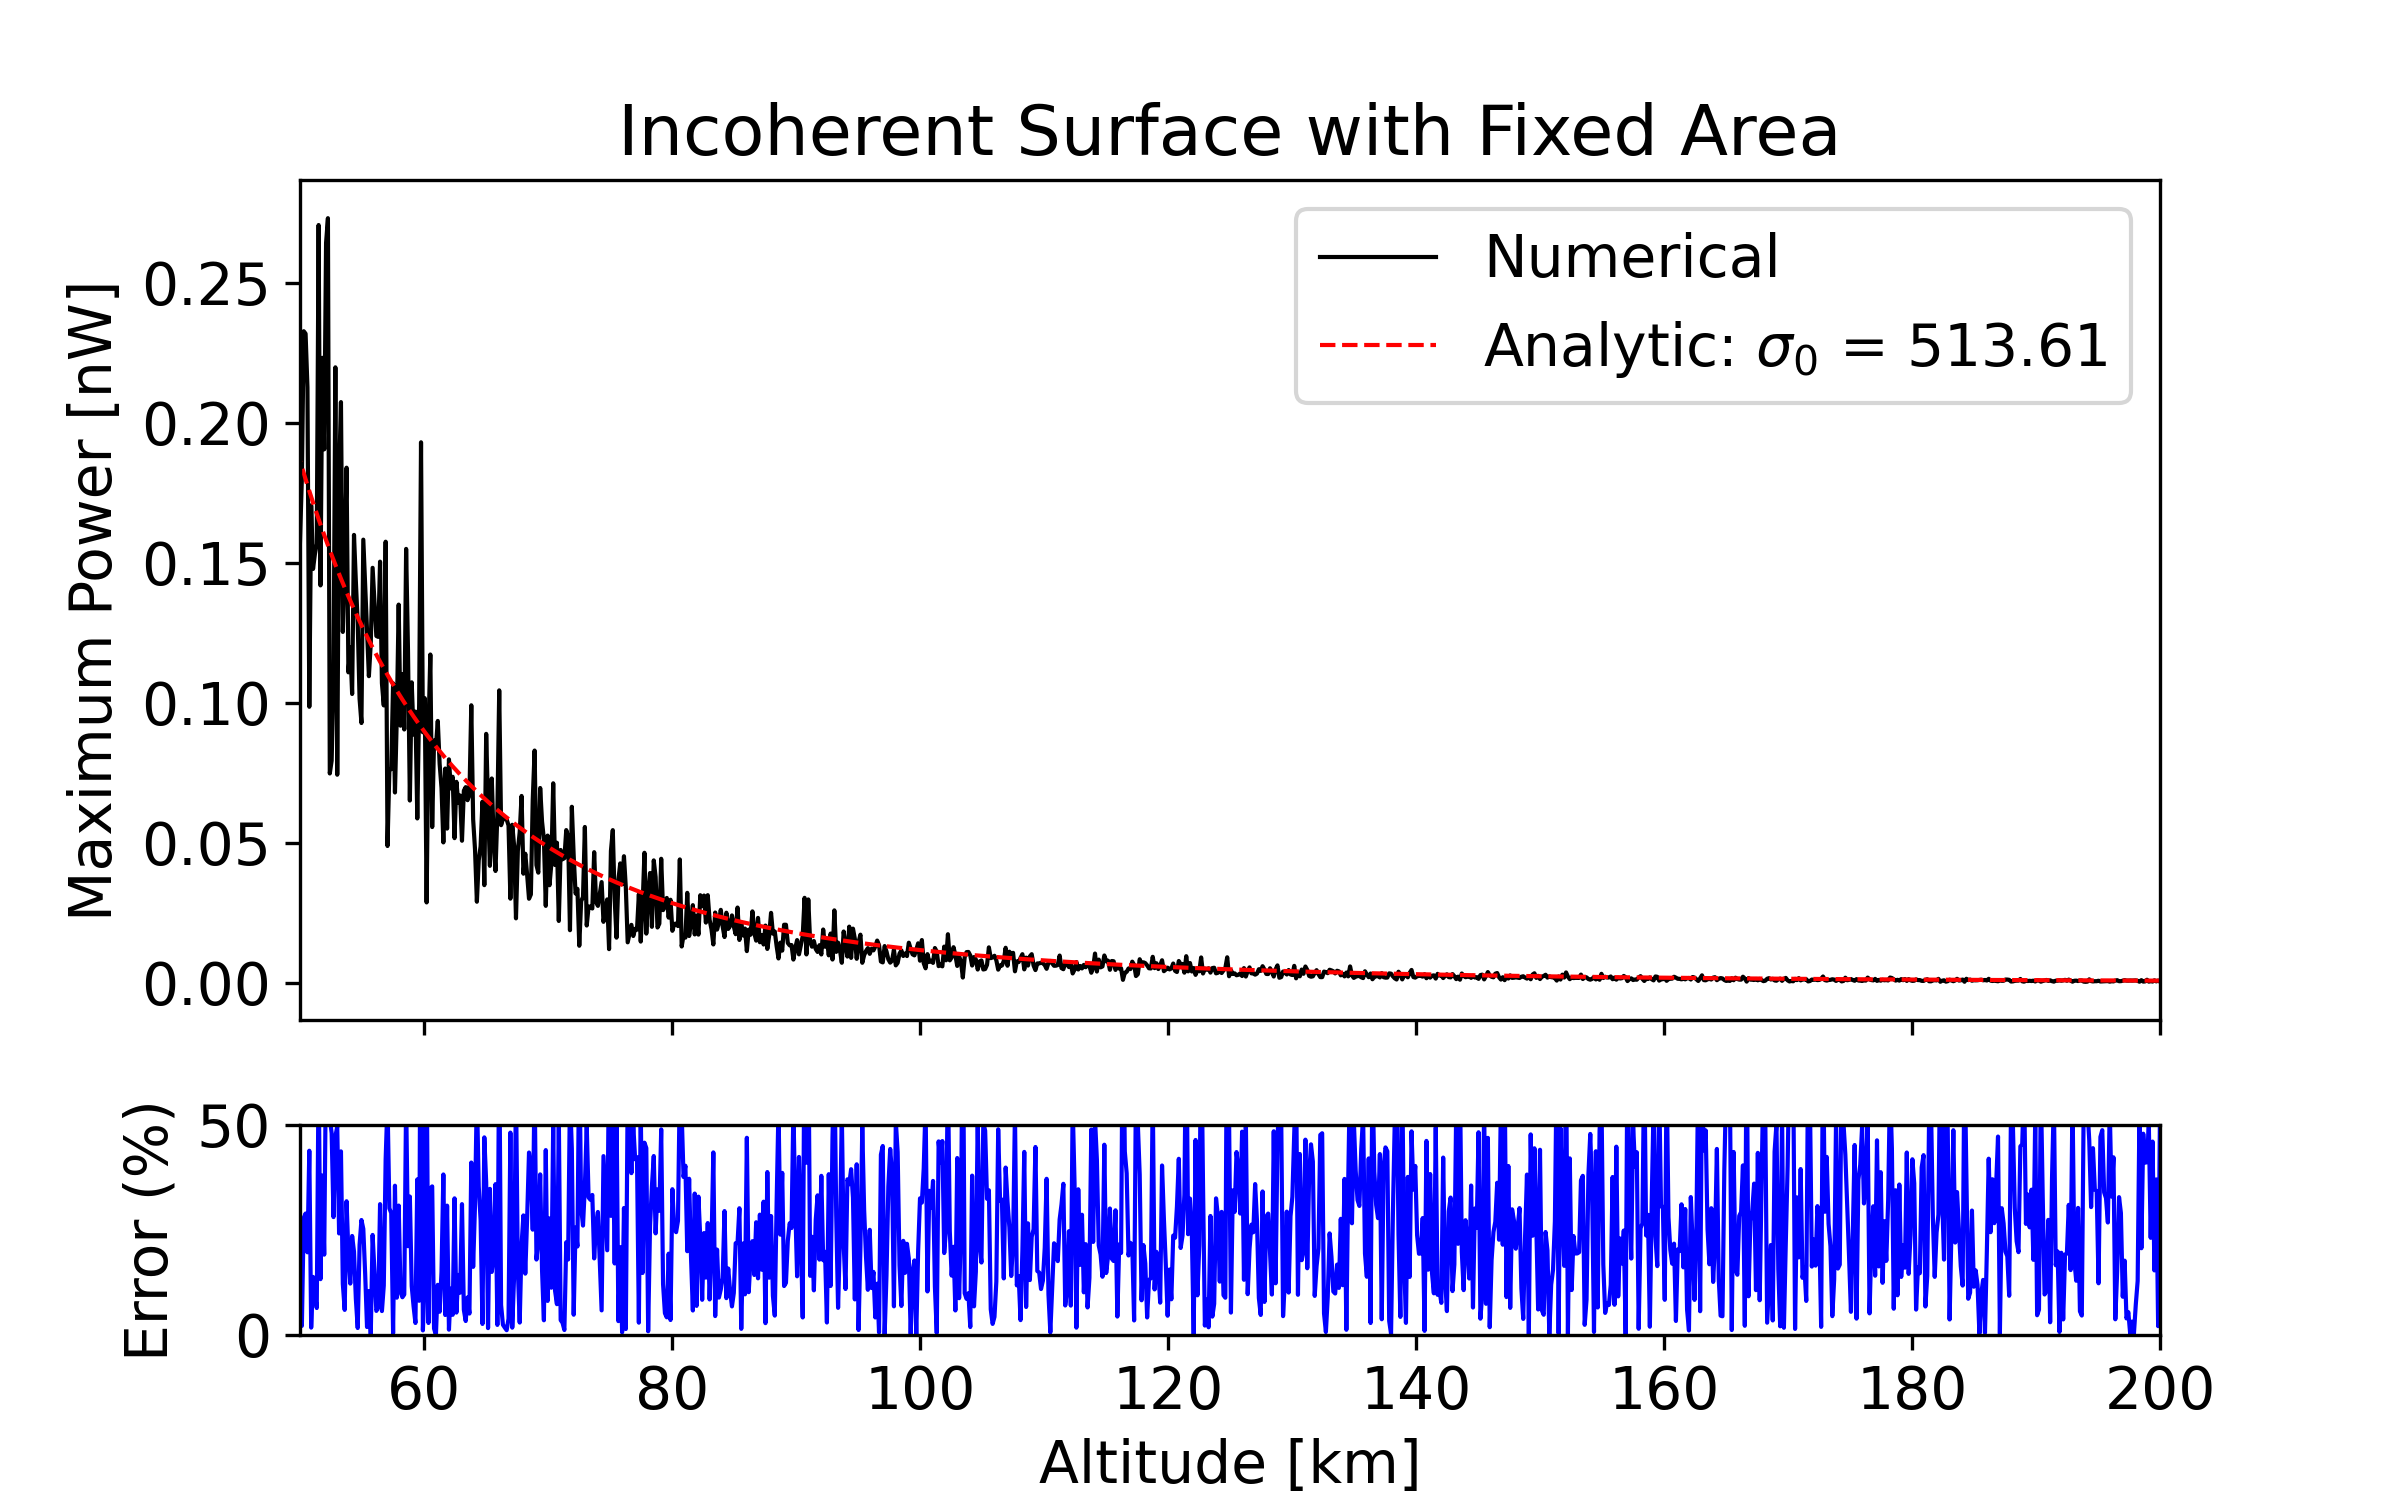
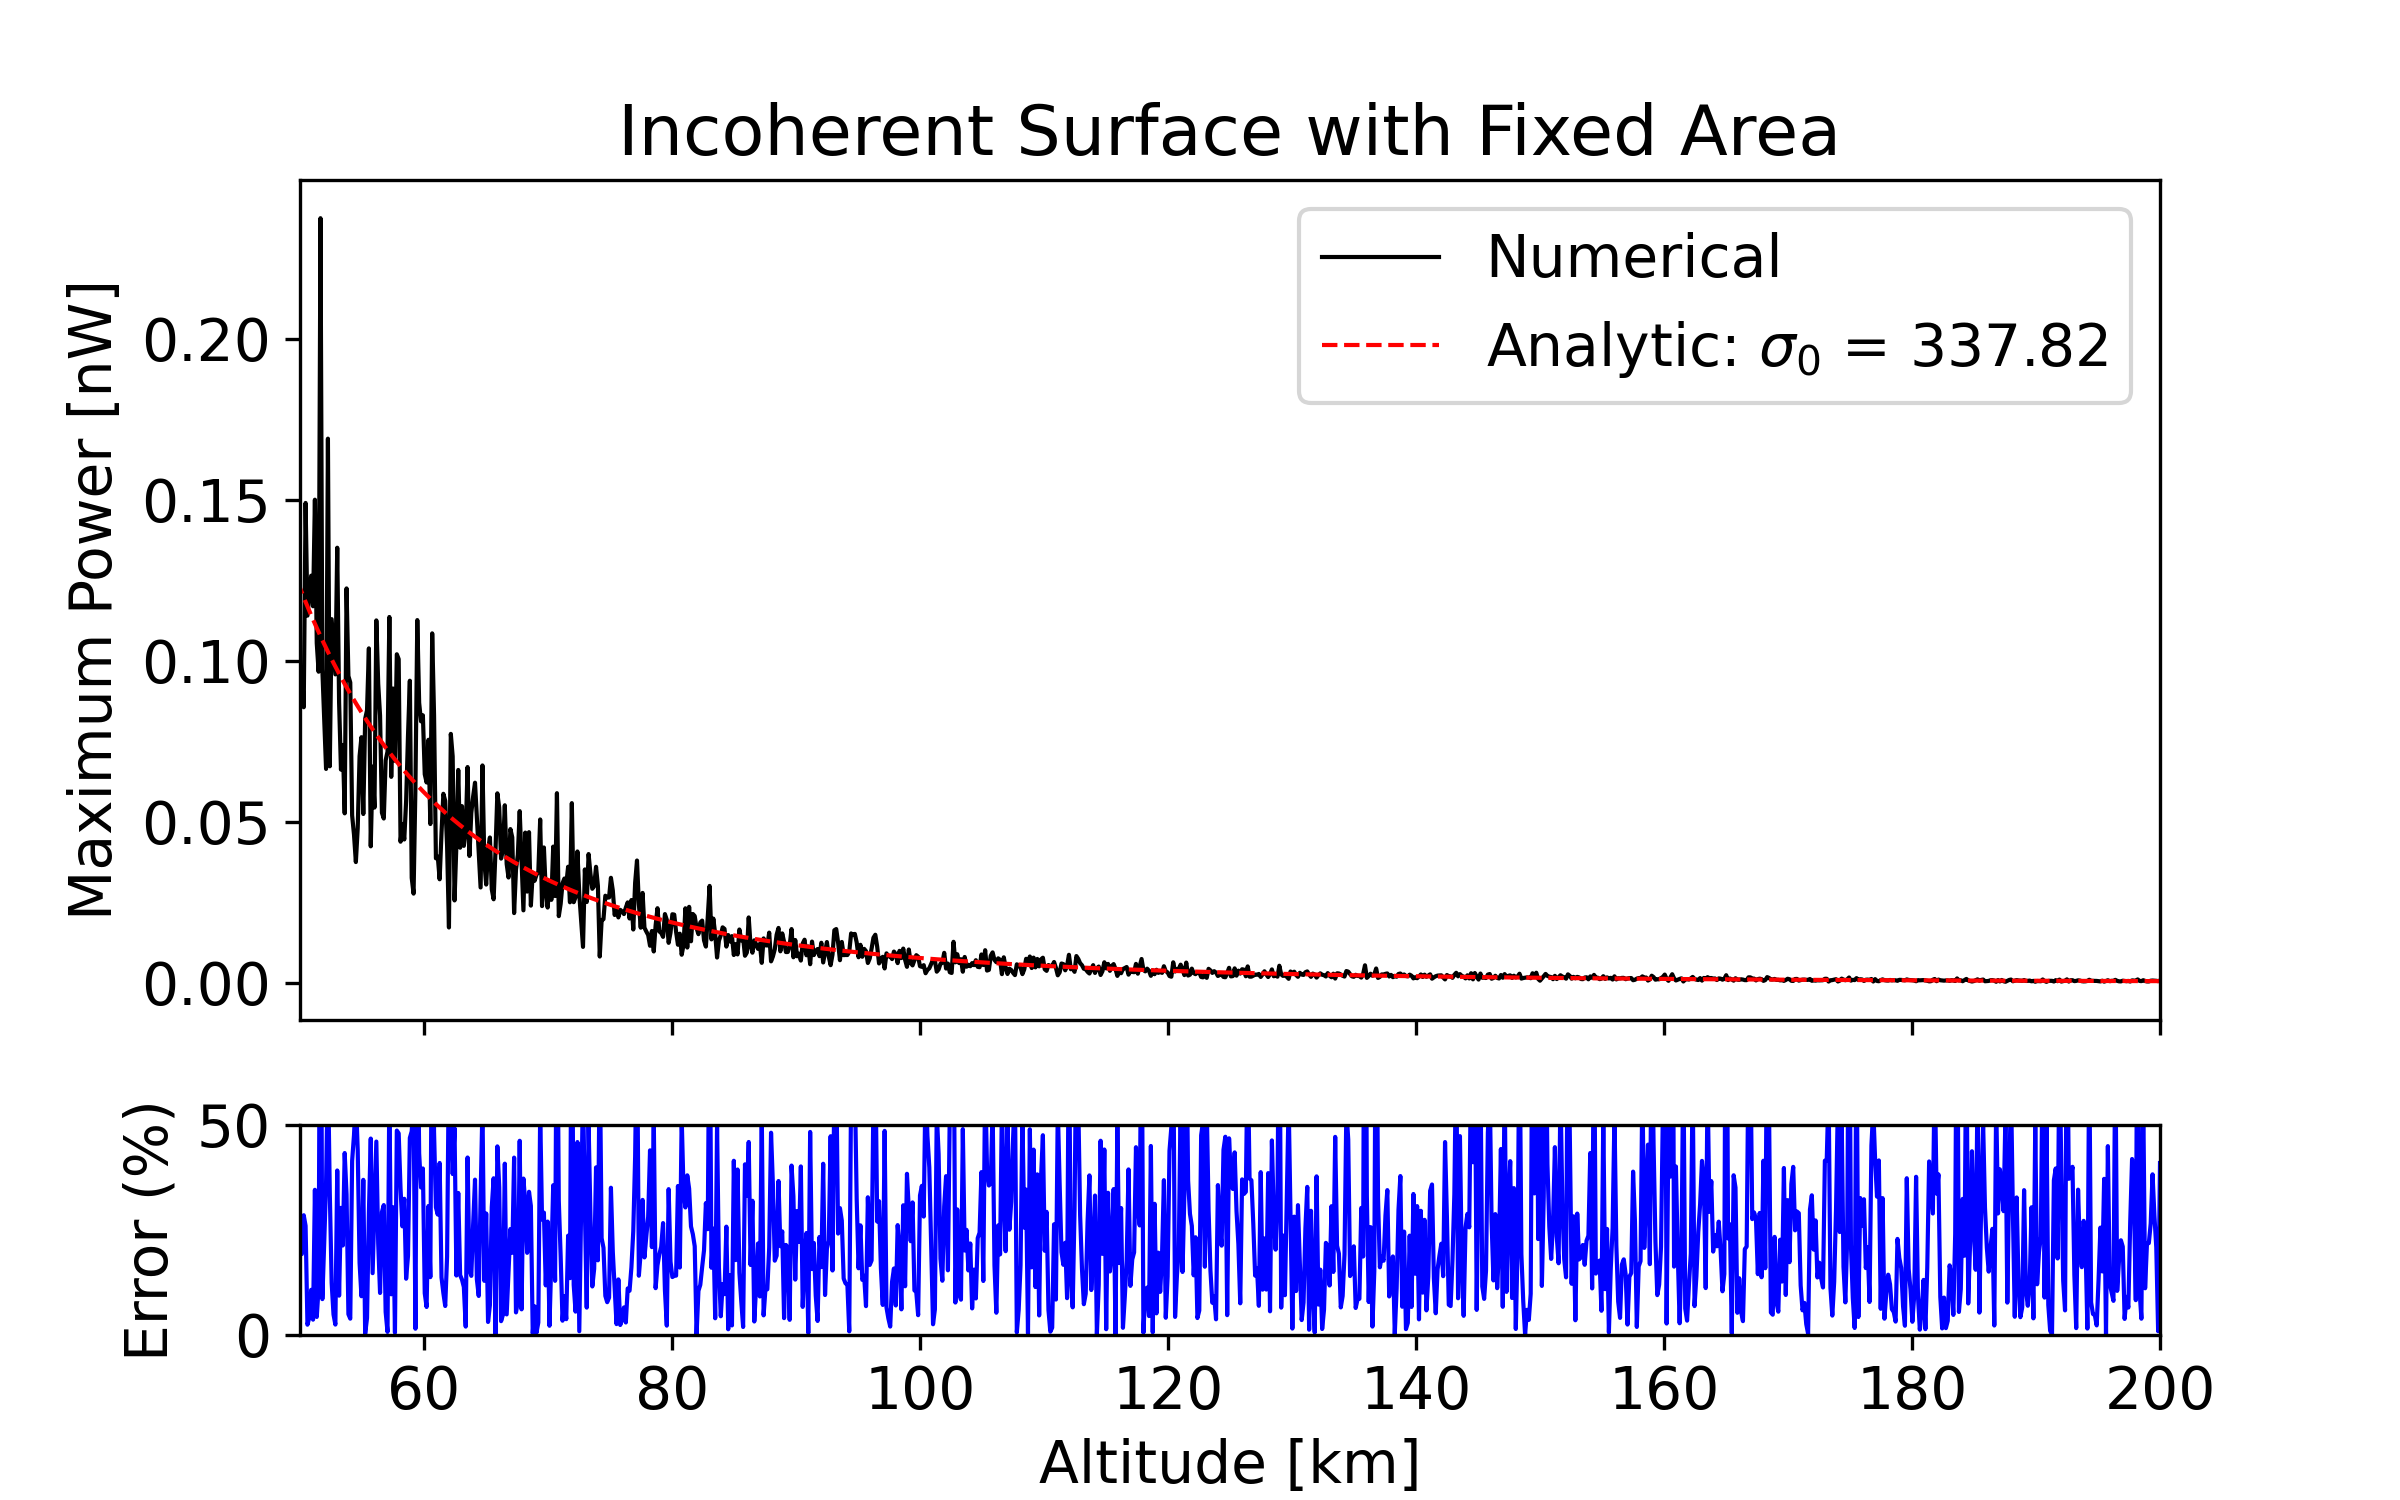
Thrust implementation for reflected phasor trace calculation

diff --git a/examples/UNIT_TESTS/image_theory/code/output.py b/examples/UNIT_TESTS/image_theory/code/output.py
@@ -20,7 +20,8 @@ P_r = (P_t * G**2 * lam**2) / ((4 * np.pi)**2 * (2*h)**2)
 P_num = np.zeros_like(h)
 
 for i, alt in enumerate(h):
-    f = f"coRDR/rdr20m/s{i:06d}.txt"
+    #f = f"coRDR/rdr20m/s{i:06d}.txt"
+    f = f"coRDR/rdr0/s{i:06d}.txt"
     arr = np.loadtxt(f).T
     sig = arr[0] + 1j * arr[1]
     P_num[i] = np.max(np.abs(sig)**2)
